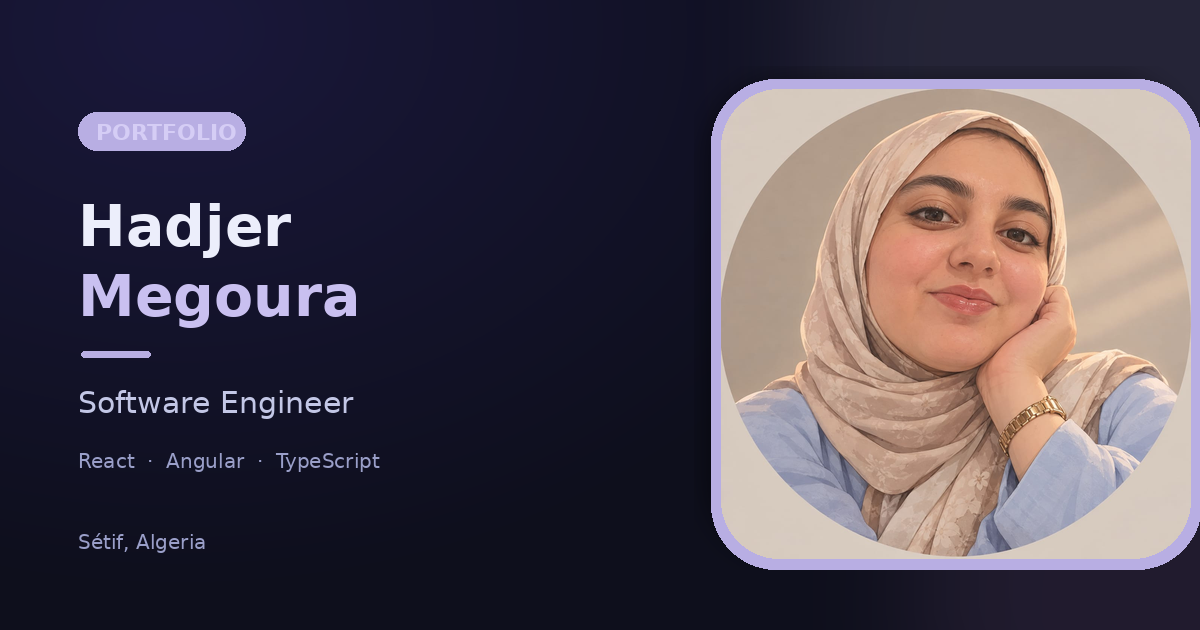
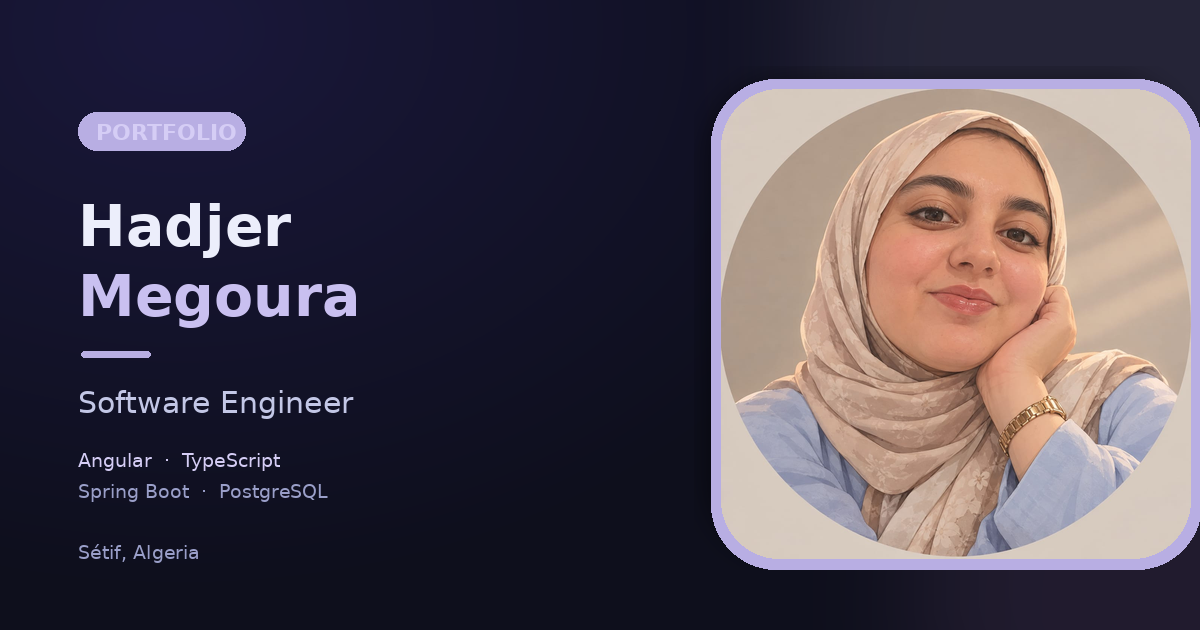
feat: update meta tags for SEO and add sitemap and robots.txt

Changed region(s): [[0.0617, 0.7238, 0.3083, 0.8143], [0.0617, 0.8444, 0.185, 0.9048]]

diff --git a/index.html b/index.html
@@ -6,18 +6,26 @@
     <meta name="viewport" content="width=device-width, initial-scale=1.0" />
     <meta
       name="description"
-      content="Explore the portfolio of Hadjer Megoura, a software engineer in Algeria building thoughtful web experiences with React, Angular, and TypeScript."
+      content="Explore the portfolio of Hadjer Megoura, a software engineer specializing in Angular and TypeScript, with experience in Spring Boot and PostgreSQL."
     />
+    <link rel="canonical" href="https://hadjer-megoura-portfolio.vercel.app/" />
     <meta
       property="og:title"
       content="Hadjer Megoura | Software Engineer Portfolio"
     />
     <meta
       property="og:description"
-      content="Explore selected projects and experience from Hadjer Megoura, a software engineer building thoughtful web experiences."
+      content="Angular and TypeScript software engineer with experience building applications using Spring Boot and PostgreSQL. Explore Hadjer Megoura’s selected projects."
     />
     <meta property="og:type" content="website" />
-    <meta property="og:image" content="/og-image.png" />
+    <meta
+      property="og:url"
+      content="https://hadjer-megoura-portfolio.vercel.app/"
+    />
+    <meta
+      property="og:image"
+      content="https://hadjer-megoura-portfolio.vercel.app/og-image.png"
+    />
     <meta property="og:image:alt" content="Hadjer Megoura, Software Engineer" />
     <meta property="og:image:type" content="image/png" />
     <meta property="og:image:width" content="1200" />
@@ -29,9 +37,12 @@
     />
     <meta
       name="twitter:description"
-      content="Explore selected projects and experience from Hadjer Megoura, a software engineer building thoughtful web experiences."
+      content="Angular and TypeScript software engineer with experience building applications using Spring Boot and PostgreSQL. Explore Hadjer Megoura’s selected projects."
     />
-    <meta name="twitter:image" content="/og-image.png" />
+    <meta
+      name="twitter:image"
+      content="https://hadjer-megoura-portfolio.vercel.app/og-image.png"
+    />
     <meta
       name="twitter:image:alt"
       content="Hadjer Megoura, Software Engineer"
